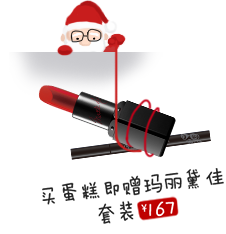
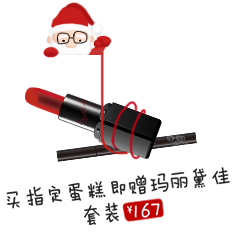
add christmas event

Changed region(s): [[0.0929, 0.0, 0.9292, 0.688], [0.031, 0.7179, 0.9912, 0.9573]]

diff --git a/src/christmas/css/christmas.css b/src/christmas/css/christmas.css
@@ -73,8 +73,8 @@ body {
 /* line 56, ../sass/christmas.scss */
 .section-banner .lg-title {
   position: absolute;
-  left: 86px;
-  top: 72px;
+  left: -50px;
+  top: -10px;
   -webkit-animation-duration: 2s;
   animation-duration: 2s;
 }
@@ -98,168 +98,180 @@ body {
   left: 442px;
   top: 430px;
 }
+/* line 84, ../sass/christmas.scss */
+.section-banner .banner-link {
+  position: absolute;
+  left: 300px;
+  top: 400px;
+  width: 500px;
+  height: 370px;
+  outline: none;
+  background: #fff;
+  opacity: 0;
+  filter: alpha(opacity=0);
+}
 
-/* line 85, ../sass/christmas.scss */
+/* line 97, ../sass/christmas.scss */
 .section-main {
   background: url(../images/main_bg.jpg);
 }
-/* line 87, ../sass/christmas.scss */
+/* line 99, ../sass/christmas.scss */
 .section-main .evt-content {
   height: 2640px;
 }
-/* line 91, ../sass/christmas.scss */
+/* line 103, ../sass/christmas.scss */
 .section-main .buy-btn .buy-link {
   position: absolute;
   width: 130px;
   height: 40px;
 }
-/* line 97, ../sass/christmas.scss */
+/* line 109, ../sass/christmas.scss */
 .section-main .q1 {
   left: 70px;
   top: -23px;
 }
-/* line 101, ../sass/christmas.scss */
+/* line 113, ../sass/christmas.scss */
 .section-main .q2 {
   left: 488px;
   top: 134px;
 }
-/* line 105, ../sass/christmas.scss */
+/* line 117, ../sass/christmas.scss */
 .section-main .q3 {
   left: 213px;
   top: 537px;
 }
-/* line 109, ../sass/christmas.scss */
+/* line 121, ../sass/christmas.scss */
 .section-main .q3 .buy-link {
   left: 20px;
   top: 5px;
 }
-/* line 114, ../sass/christmas.scss */
+/* line 126, ../sass/christmas.scss */
 .section-main .q4 {
   left: 460px;
   top: 410px;
 }
-/* line 118, ../sass/christmas.scss */
+/* line 130, ../sass/christmas.scss */
 .section-main .q5 {
   left: 260px;
   top: 694px;
 }
-/* line 122, ../sass/christmas.scss */
+/* line 134, ../sass/christmas.scss */
 .section-main .q6 {
   left: 555px;
   top: 992px;
 }
-/* line 126, ../sass/christmas.scss */
+/* line 138, ../sass/christmas.scss */
 .section-main .q6 .buy-link {
   left: 38px;
   top: 5px;
 }
-/* line 131, ../sass/christmas.scss */
+/* line 143, ../sass/christmas.scss */
 .section-main .q7 {
   left: 52px;
   top: 1022px;
 }
-/* line 135, ../sass/christmas.scss */
+/* line 147, ../sass/christmas.scss */
 .section-main .q8 {
   left: 323px;
   top: 1255px;
 }
-/* line 139, ../sass/christmas.scss */
+/* line 151, ../sass/christmas.scss */
 .section-main .q9 {
   left: 178px;
   top: 1576px;
 }
-/* line 143, ../sass/christmas.scss */
+/* line 155, ../sass/christmas.scss */
 .section-main .q9 .buy-link {
   left: 20px;
   top: 0;
   height: 50px;
 }
-/* line 149, ../sass/christmas.scss */
+/* line 161, ../sass/christmas.scss */
 .section-main .q10 {
   left: 367px;
   top: 1624px;
 }
-/* line 153, ../sass/christmas.scss */
+/* line 165, ../sass/christmas.scss */
 .section-main .q11 {
   left: 706px;
   top: 1530px;
 }
-/* line 157, ../sass/christmas.scss */
+/* line 169, ../sass/christmas.scss */
 .section-main .q12 {
   left: 730px;
   top: 2022px;
 }
-/* line 161, ../sass/christmas.scss */
+/* line 173, ../sass/christmas.scss */
 .section-main .q12 .buy-link {
   left: 20px;
   top: 2px;
   height: 50px;
 }
-/* line 167, ../sass/christmas.scss */
+/* line 179, ../sass/christmas.scss */
 .section-main .q13 {
   left: 237px;
   top: 2160px;
 }
-/* line 171, ../sass/christmas.scss */
+/* line 183, ../sass/christmas.scss */
 .section-main .q14 {
   left: 205px;
   top: 2050px;
 }
-/* line 175, ../sass/christmas.scss */
+/* line 187, ../sass/christmas.scss */
 .section-main .q15 {
   left: 66px;
   top: 2315px;
 }
-/* line 179, ../sass/christmas.scss */
+/* line 191, ../sass/christmas.scss */
 .section-main .q15 .buy-link {
   left: 20px;
   bottom: 3px;
   height: 50px;
 }
-/* line 185, ../sass/christmas.scss */
+/* line 197, ../sass/christmas.scss */
 .section-main .q16 {
   left: 599px;
   top: 2562px;
 }
-/* line 189, ../sass/christmas.scss */
+/* line 201, ../sass/christmas.scss */
 .section-main .footer-bg {
   bottom: 0px;
   left: 348px;
 }
 
-/* line 195, ../sass/christmas.scss */
+/* line 207, ../sass/christmas.scss */
 .mc-logo {
   position: absolute;
-  right: 0;
-  top: 52px;
+  right: 10px;
+  top: 54px;
   width: 61px;
   height: 88px;
   background: url(../images/christ_logo.png) no-repeat;
 }
 
-/* line 205, ../sass/christmas.scss */
+/* line 217, ../sass/christmas.scss */
 .evt-footer {
   height: 300px;
   background-color: #e9eaee;
 }
-/* line 209, ../sass/christmas.scss */
+/* line 221, ../sass/christmas.scss */
 .evt-footer .footer-bd {
   position: relative;
   width: 1000px;
   margin: 0 auto;
 }
-/* line 215, ../sass/christmas.scss */
+/* line 227, ../sass/christmas.scss */
 .evt-footer .evt-rules {
   padding-left: 138px;
   padding-top: 62px;
 }
-/* line 218, ../sass/christmas.scss */
+/* line 230, ../sass/christmas.scss */
 .evt-footer .evt-rules h2 {
   font-size: 18px;
   margin-bottom: 5px;
   color: #333;
 }
-/* line 223, ../sass/christmas.scss */
+/* line 235, ../sass/christmas.scss */
 .evt-footer .evt-rules p {
   font-size: 16px;
   line-height: 1.5;
@@ -268,7 +280,7 @@ body {
   text-indent: -1.5em;
 }
 
-/* line 234, ../sass/christmas.scss */
+/* line 246, ../sass/christmas.scss */
 .snow-container {
   position: fixed;
   top: 0;
@@ -276,7 +288,7 @@ body {
   width: 100%;
   z-index: 2000;
 }
-/* line 241, ../sass/christmas.scss */
+/* line 253, ../sass/christmas.scss */
 .snow-container .snow {
   position: absolute;
   background-color: #fff;
@@ -286,7 +298,7 @@ body {
   box-shadow: 0 0 15px rgba(255, 255, 255, 0.8);
   background: url(../images/snow.png) no-repeat\9;
 }
-/* line 251, ../sass/christmas.scss */
+/* line 263, ../sass/christmas.scss */
 .snow-container :root .snow {
   background: none;
 }

diff --git a/src/christmas/js/christmas.js b/src/christmas/js/christmas.js
@@ -132,8 +132,8 @@
     };
 
     var christmasMcData = {
-        "c2":{"x":0,"y":233,"w":215,"h":224,"offX":9,"offY":0,"sourceW":226,"sourceH":234,duration:18},
-        "c1":{"x":0,"y":0,"w":211,"h":231,"offX":9,"offY":0,"sourceW":226,"sourceH":234,duration:30}
+        "c1":{"x":0,"y":0,"w":224,"h":230,"offX":2,"offY":2,"sourceW":232,"sourceH":235,duration:18},
+        "c2":{"x":0,"y":232,"w":224,"h":223,"offX":6,"offY":2,"sourceW":232,"sourceH":235,duration:30}
     };
 
     var lighterMcData = {
@@ -355,10 +355,10 @@
         $(mcElwp).css({
             position: "fixed",
             left: "50%",
-            marginLeft: "255px",
+            marginLeft: "260px",
             width: "230px",
             height: "220px",
-            top: "47px",
+            top: "45px",
             zIndex: 1000
         }).append(mcEl).append(mcLogo);
         $(document.body).append(mcElwp);

diff --git a/src/christmas/sass/christmas.scss b/src/christmas/sass/christmas.scss
@@ -55,8 +55,8 @@ body{
 
   .lg-title{
     position: absolute;
-    left:86px;
-    top:72px;
+    left:-50px;
+    top:-10px;
     -webkit-animation-duration: 2s;
     animation-duration: 2s;
   }
@@ -79,6 +79,18 @@ body{
     position: absolute;
     left: 442px;
     top: 430px;
+  }
+
+  .banner-link{
+    position: absolute;
+    left:300px;
+    top:400px;
+    width:500px;
+    height:370px;
+    outline: none;
+    background: #fff;
+    opacity:0;
+    filter:alpha(opacity=0);
   }
 }
 
@@ -194,8 +206,8 @@ body{
 
 .mc-logo{
   position: absolute;
-  right:0;
-  top:52px;
+  right:10px;
+  top:54px;
   width:61px;
   height:88px;
   background: url(../images/christ_logo.png) no-repeat;

diff --git a/src/christmas/index.html b/src/christmas/index.html
@@ -96,6 +96,7 @@
             <div class="lighter">
                 <div id="lighter"></div>
             </div>
+            <a href="#" class="banner-link"></a>
         </div>
     </div>
     <div class="section-main">
